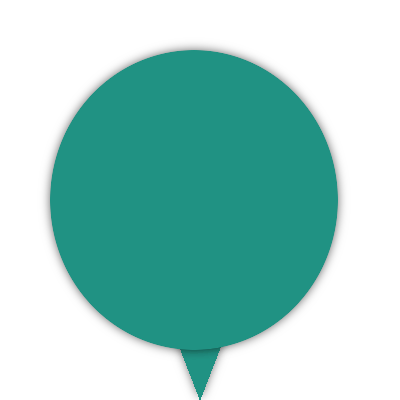
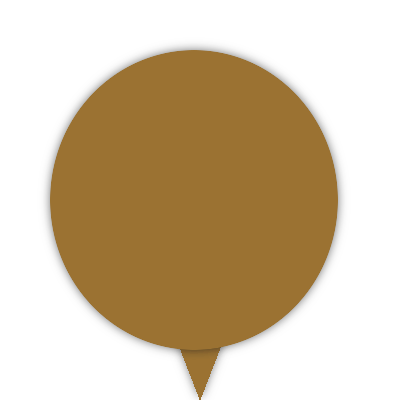
Update background color to suit the AppLauncher's gradient (problem caused by renaming calendar to agenda)

diff --git a/main.qml b/main.qml
@@ -20,9 +20,9 @@ import org.nemomobile.calendar 1.0
 import org.asteroid.controls 1.0
 
 Application {
-    centerColor: "#00ccb2"
-    outerColor: "#00322c"
-    property color overlayColor: "#209283"
+    centerColor: "#EA9C14"
+    outerColor: "#5E3F08"
+    property color overlayColor: "#9b7232"
 
     property date currentDate: new Date()
 
@@ -184,7 +184,7 @@ Application {
 
                         Text {
                             text: Qt.locale().dayName(new Date(year, month-1, index+1).getDay(), Locale.ShortFormat) +
-                                  "\n" + (index+1) + "\n"
+                                  "\n" + (index+1)
                             color: "white"
                             anchors.centerIn: parent
                             horizontalAlignment: Text.AlignHCenter
